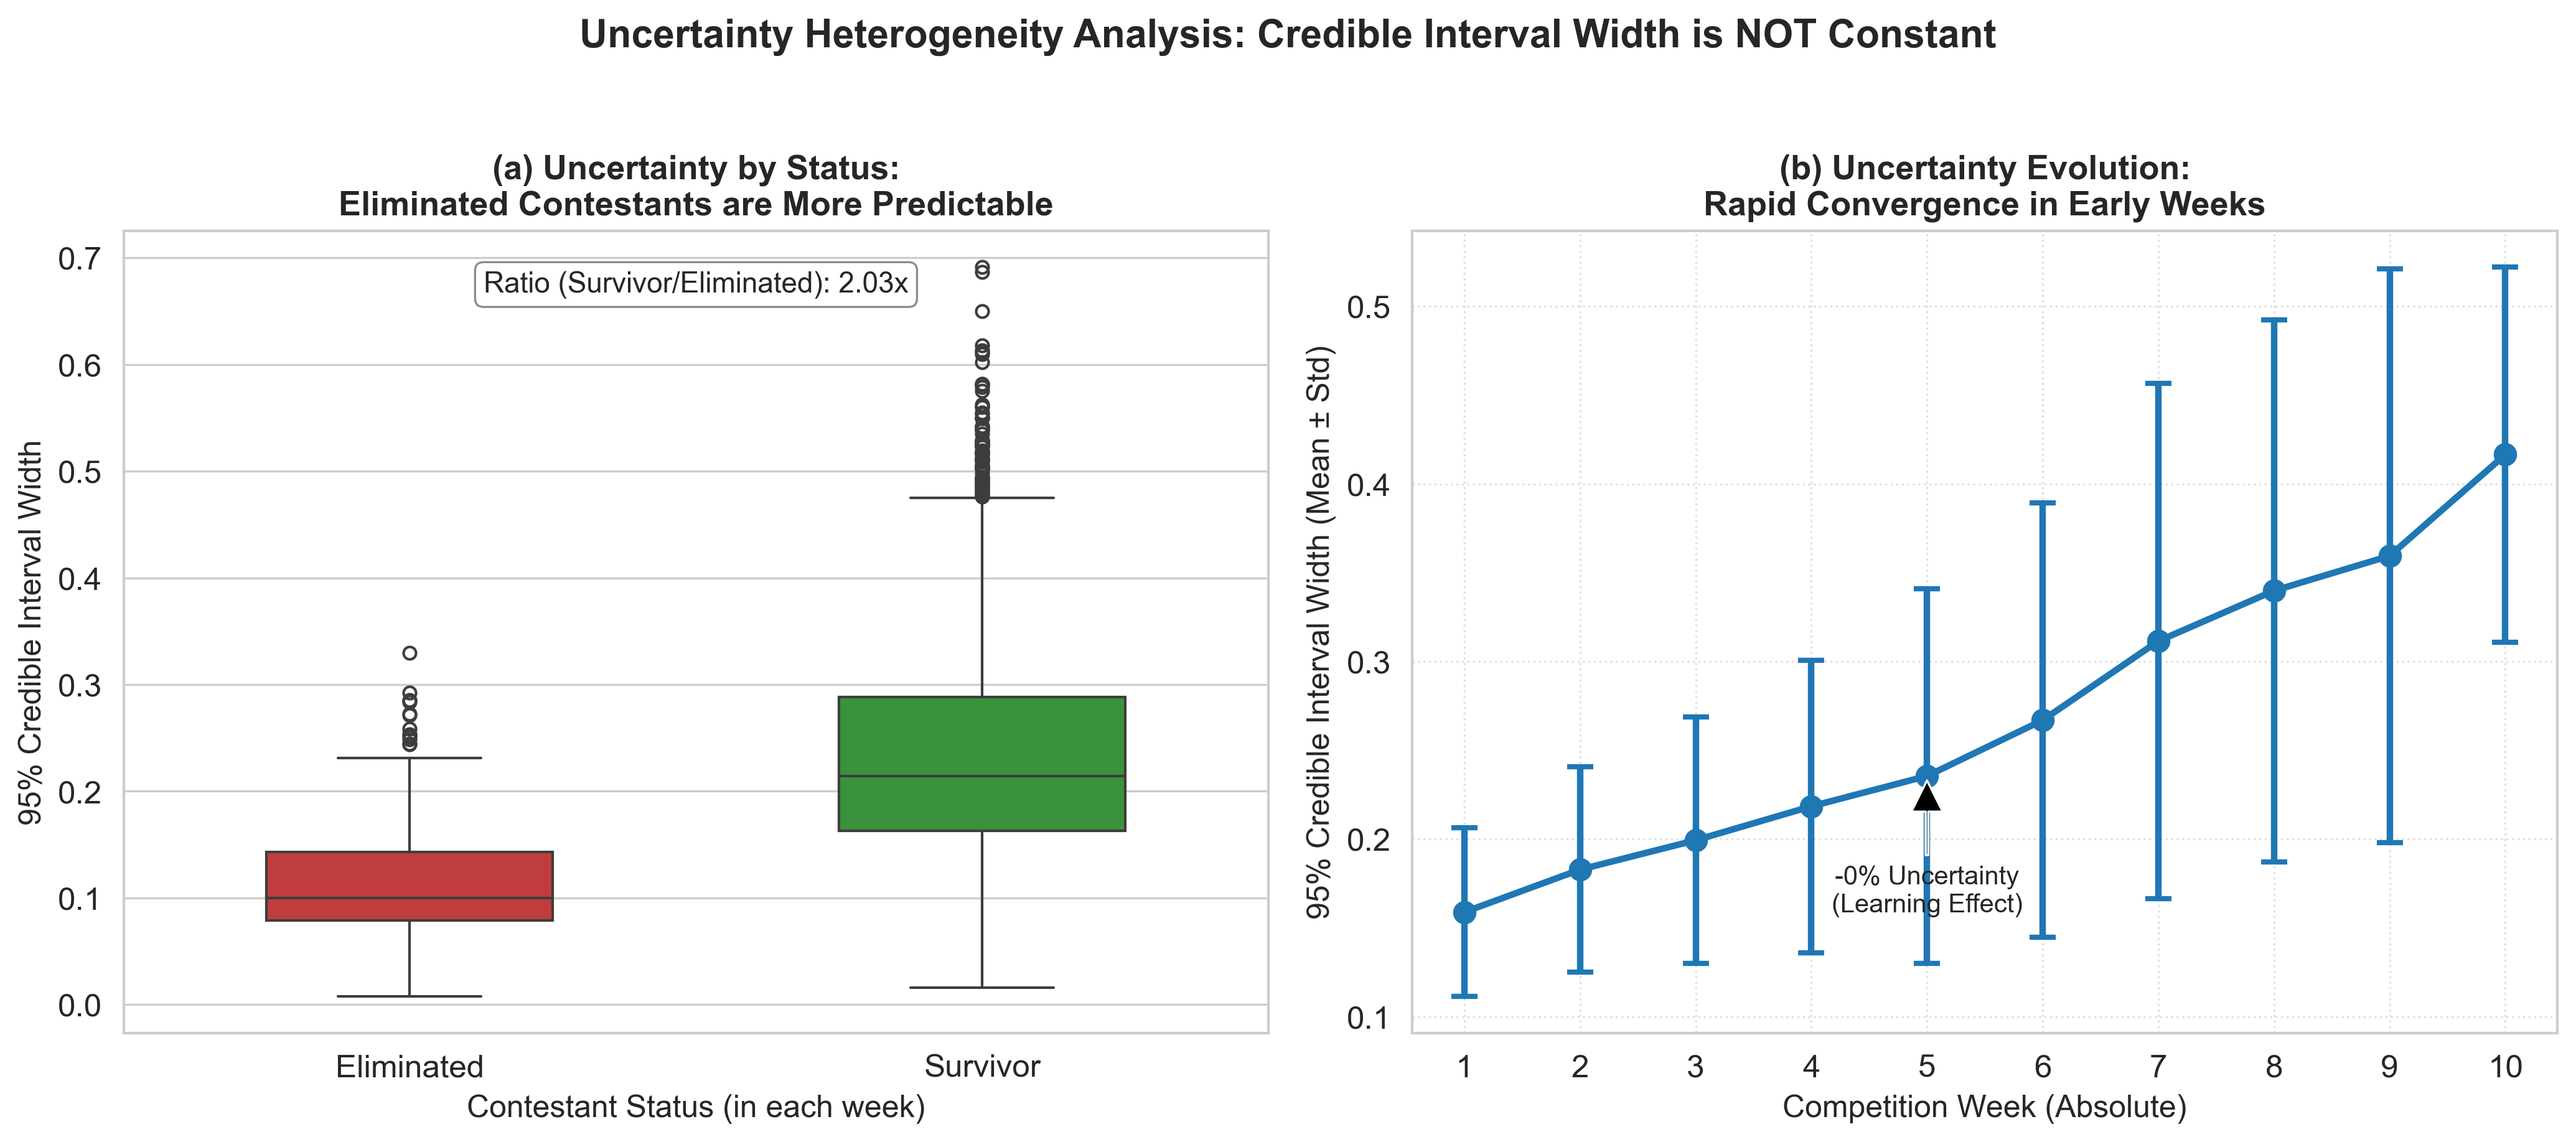
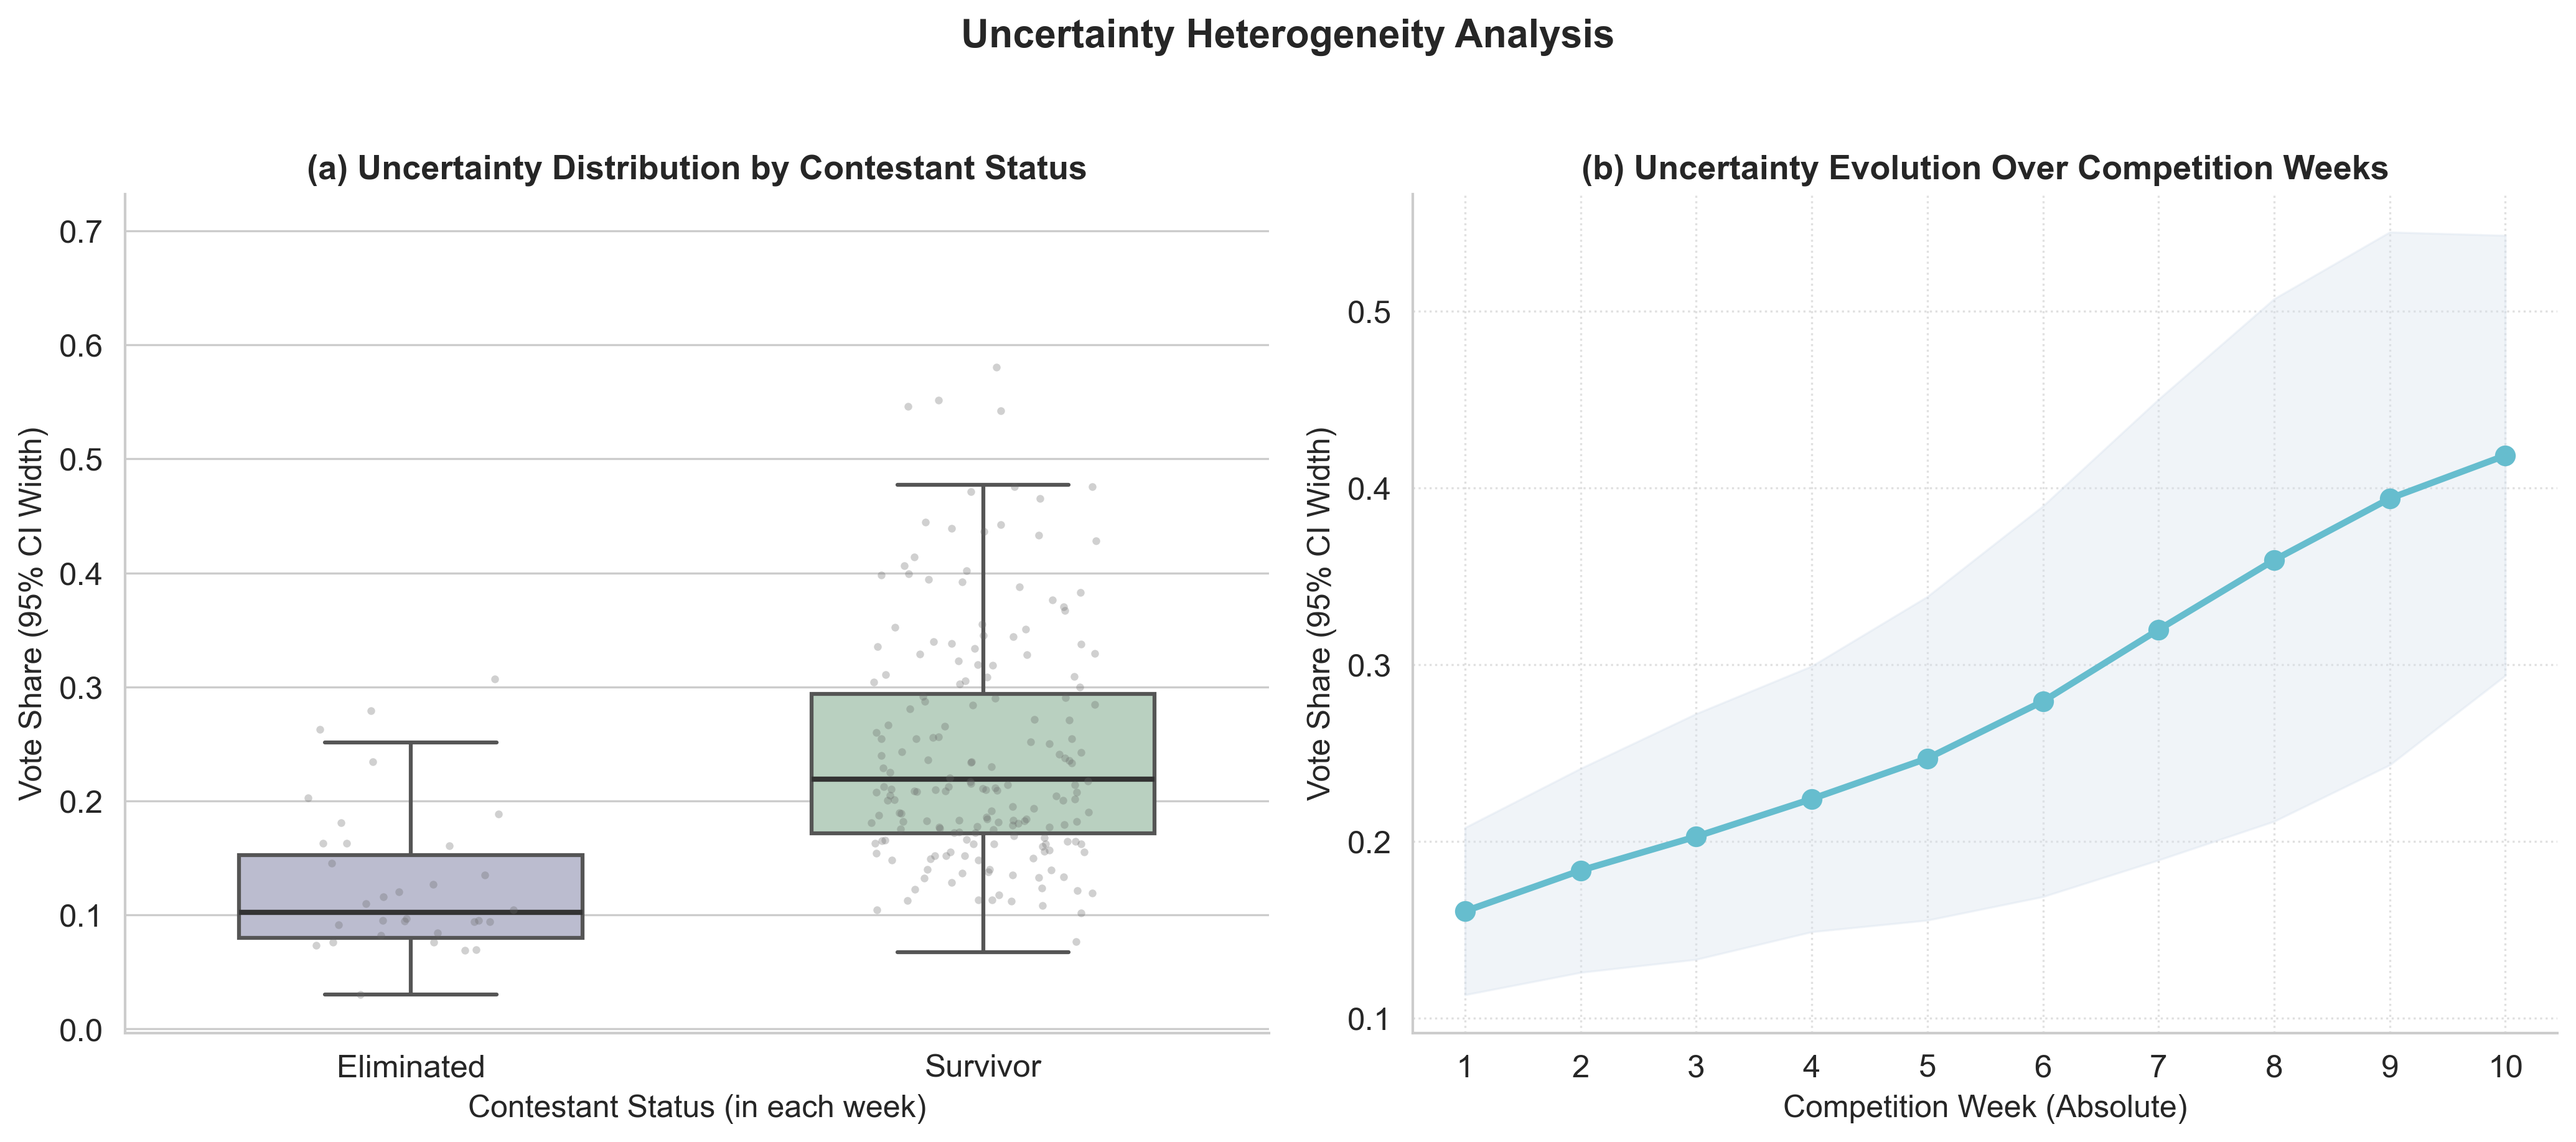
feat: Add script to analyze and visualize uncertainty and heterogeneity in SMC inverse model results.

diff --git a/plots/plot_uncertainty_analysis.py b/plots/plot_uncertainty_analysis.py
@@ -16,75 +16,93 @@ plt.rcParams['font.family'] = 'sans-serif'
 plt.rcParams['font.sans-serif'] = ['Arial', 'DejaVu Sans', 'Liberation Sans', 'Bitstream Vera Sans', 'sans-serif']
 sns.set_theme(style="whitegrid", context="paper", font_scale=1.4)
 
-def plot_uncertainty():
+# Custom Pastel Color Palette
+COLORS = {
+    'apricot': '#d6e0ed',   # 浅杏色
+    'lavender': '#b8b9d2',  # 浅紫色
+    'mint': '#b5d4be',      # 浅绿色
+    'sky': '#66bdce',       # 浅蓝色
+}
+
+def plot_uncertainty(force_rerun=False):
     # 1. Config
     csv_path = '2026_MCM_Problem_C_Data.csv'
+    cache_file = 'output/uncertainty_data.csv'
     
-    # Optimized Parameters
-    best_params = ModelParams(
-        n_particles=400,
-        rho=0.9,
-        gamma=0.0,
-        delta=1.2,
-        alpha_discriminant=7.0,
-        kappa=0.3,
-        beta_judge=2.0
-    )
-    
-    print("Running model for Uncertainty Analysis...")
-    
-    dp = DataProcessor(csv_path)
-    model = SMCInverse(dp, best_params)
-    
-    # 2. Run All Seasons
-    seasons = [s for s in dp.get_seasons() if s != 32]
-    results = model.run_all_seasons(seasons=seasons, verbose=False)
-    
-    # 3. Collect CI Width Data
-    ci_data = []  # List of dicts: {season, week, name, ci_width, status, phase}
-    
-    print("Extracting CI width data...")
-    
-    for season, res in results.items():
-        estimates = res.get('weekly_estimates', {})
-        events = dp.get_elimination_events(season)
-        elim_map = {e.week: set(e.eliminated_set) for e in events}
+    # Check if cache exists
+    if os.path.exists(cache_file) and not force_rerun:
+        print(f"Loading cached uncertainty data from {cache_file}...")
+        df = pd.read_csv(cache_file)
+        print(f"Loaded {len(df)} data points.")
+    else:
+        print("Cache not found or rerun requested. Running full simulation (1000 particles)...")
         
-        # Get total weeks for phase calculation
-        all_weeks = sorted(estimates.keys())
-        n_weeks = len(all_weeks)
+        # Optimized Parameters
+        best_params = ModelParams(
+            n_particles=1000,  # User requested 1000 particles for high precision
+            rho=0.9,
+            gamma=0.0,
+            delta=1.2,
+            alpha_discriminant=7.0,
+            kappa=0.3,
+            beta_judge=2.0
+        )
         
-        for i, week in enumerate(all_weeks):
-            # Use Absolute Week Number (1-indexed)
-            week_num = i + 1
+        dp = DataProcessor(csv_path)
+        model = SMCInverse(dp, best_params)
+        
+        # Run All Seasons
+        seasons = [s for s in dp.get_seasons() if s != 32]
+        results = model.run_all_seasons(seasons=seasons, verbose=False)
+        
+        # Collect CI Width Data
+        ci_data = []
+        print("Extracting CI width data...")
+        
+        for season, res in results.items():
+            estimates = res.get('weekly_estimates', {})
+            events = dp.get_elimination_events(season)
+            elim_map = {e.week: set(e.eliminated_set) for e in events}
             
-            week_est = estimates[week]
-            actual_eliminated = elim_map.get(week, set())
+            all_weeks = sorted(estimates.keys())
             
-            for name, est in week_est.items():
-                ci_width = est.get('ci_width', est['ci_high'] - est['ci_low'])
-                status = 'Eliminated' if name in actual_eliminated else 'Survivor'
+            for i, week in enumerate(all_weeks):
+                week_num = i + 1
+                week_est = estimates[week]
+                actual_eliminated = elim_map.get(week, set())
                 
-                ci_data.append({
-                    'season': season,
-                    'week': week,
-                    'week_num': week_num, # Absolute week number
-                    'name': name,
-                    'ci_width': ci_width,
-                    'status': status
-                })
+                for name, est in week_est.items():
+                    ci_width = est.get('ci_width', est['ci_high'] - est['ci_low'])
+                    status = 'Eliminated' if name in actual_eliminated else 'Survivor'
+                    
+                    ci_data.append({
+                        'season': season,
+                        'week': week,
+                        'week_num': week_num,
+                        'name': name,
+                        'ci_width': ci_width,
+                        'status': status
+                    })
+        
+        df = pd.DataFrame(ci_data)
+        
+        # Ensure output directory exists
+        os.makedirs('output', exist_ok=True)
+        
+        # Save to Cache
+        df.to_csv(cache_file, index=False)
+        print(f"Saved {len(df)} data points to {cache_file}")
 
-    df = pd.DataFrame(ci_data)
-    print(f"Collected {len(df)} data points.")
-    
     # 4. Plotting - Two Panel Figure
     fig, axes = plt.subplots(1, 2, figsize=(14, 6), dpi=300)
     
-    # --- Panel 1: Boxplot by Status ---
+    # --- Panel 1: Beautiful Boxplot by Status ---
     ax1 = axes[0]
     
-    palette = {'Eliminated': '#d62728', 'Survivor': '#2ca02c'}
+    # Use Pastel Colors: Eliminated=Lavender, Survivor=Mint
+    palette = {'Eliminated': COLORS['lavender'], 'Survivor': COLORS['mint']}
     
+    # Create prettier boxplot with stripplot overlay
     sns.boxplot(
         data=df, 
         x='status', 
@@ -92,24 +110,37 @@ def plot_uncertainty():
         palette=palette,
         order=['Eliminated', 'Survivor'],
         ax=ax1,
-        width=0.5
+        width=0.6,
+        linewidth=1.5,
+        fliersize=0,  # Hide outliers (will show as stripplot)
+        boxprops=dict(edgecolor='#555555'),
+        whiskerprops=dict(color='#555555'),
+        capprops=dict(color='#555555'),
+        medianprops=dict(color='#333333', linewidth=2)
     )
     
-    # Add statistical annotation
-    elim_mean = df[df['status'] == 'Eliminated']['ci_width'].mean()
-    surv_mean = df[df['status'] == 'Survivor']['ci_width'].mean()
-    ratio = surv_mean / elim_mean
+    # Add stripplot for individual points (jittered)
+    sns.stripplot(
+        data=df.sample(frac=0.1, random_state=42),  # Sample 10% for clarity
+        x='status',
+        y='ci_width',
+        order=['Eliminated', 'Survivor'],
+        ax=ax1,
+        color='#666666',
+        alpha=0.3,
+        size=3,
+        jitter=0.2
+    )
     
     ax1.set_xlabel('Contestant Status (in each week)', fontsize=12)
-    ax1.set_ylabel('95% Credible Interval Width', fontsize=12)
-    ax1.set_title('(a) Uncertainty by Status:\nEliminated Contestants are More Predictable', fontsize=13, weight='bold')
+    ax1.set_ylabel('Vote Share (95% CI Width)', fontsize=12)
+    ax1.set_title('(a) Uncertainty Distribution by Contestant Status', fontsize=13, weight='bold')
     
-    # Add text annotation inside plot
-    ax1.text(0.5, 0.95, f'Ratio (Survivor/Eliminated): {ratio:.2f}x',
-             transform=ax1.transAxes, ha='center', va='top', fontsize=11,
-             bbox=dict(boxstyle="round,pad=0.3", fc="white", ec="gray", alpha=0.9))
+    # Remove top and right spines for cleaner look
+    ax1.spines['top'].set_visible(False)
+    ax1.spines['right'].set_visible(False)
     
-    # --- Panel 2: Line Plot by Absolute Week ---
+    # --- Panel 2: Shaded Area Plot by Absolute Week ---
     ax2 = axes[1]
     
     # Filter for first 10 weeks (common to most seasons) to avoid noise from long seasons
@@ -121,46 +152,62 @@ def plot_uncertainty():
     
     x_weeks = week_stats.index
     
-    ax2.errorbar(
+    # Draw only mean line (no error bars)
+    ax2.plot(
         x_weeks, 
         week_stats['mean'], 
-        yerr=week_stats['std'], 
         marker='o', 
         markersize=8, 
         linewidth=2.5, 
-        capsize=5, 
-        capthick=2,
-        color='#1f77b4',
-        label='Mean CI Width'
+        color=COLORS['sky'],
+        markeredgecolor=COLORS['sky'], # Match line color to hide edge effectively or set width 0
+        markeredgewidth=0
+    )
+    
+    # Fill between for confidence band
+    ax2.fill_between(
+        x_weeks,
+        week_stats['mean'] - week_stats['std'],
+        week_stats['mean'] + week_stats['std'],
+        alpha=0.35,
+        color=COLORS['apricot']
     )
     
     ax2.set_xlabel('Competition Week (Absolute)', fontsize=12)
-    ax2.set_ylabel('95% Credible Interval Width (Mean ± Std)', fontsize=12)
-    ax2.set_title('(b) Uncertainty Evolution:\nRapid Convergence in Early Weeks', fontsize=13, weight='bold')
+    ax2.set_ylabel('Vote Share (95% CI Width)', fontsize=12)
+    ax2.set_title('(b) Uncertainty Evolution Over Competition Weeks', fontsize=13, weight='bold')
     ax2.set_xticks(x_weeks)
-    
-    # Add trend interpretation
-    first_val = week_stats['mean'].iloc[0]
-    min_val = week_stats['mean'].min()
-    drop_pct = (first_val - min_val) / first_val
-    
-    ax2.annotate(f'-{drop_pct:.0%} Uncertainty\n(Learning Effect)', 
-                 xy=(5, week_stats.loc[5, 'mean']), 
-                 xytext=(5, first_val),
-                 arrowprops=dict(facecolor='black', shrink=0.05, width=1),
-                 fontsize=10, ha='center')
     
     ax2.grid(True, linestyle=':', alpha=0.6)
     
+    # Remove top and right spines
+    ax2.spines['top'].set_visible(False)
+    ax2.spines['right'].set_visible(False)
+    
     # Overall title
-    fig.suptitle('Uncertainty Heterogeneity Analysis: Credible Interval Width is NOT Constant', 
+    fig.suptitle('Uncertainty Heterogeneity Analysis', 
                  fontsize=15, weight='bold', y=1.02)
     
     # Save
     output_path = 'output/uncertainty_heterogeneity.png'
     plt.tight_layout()
-    plt.savefig(output_path, dpi=300, bbox_inches='tight')
+    plt.savefig(output_path, dpi=300, bbox_inches='tight', facecolor='white')
     print(f"Plot saved to {output_path}")
 
 if __name__ == '__main__':
-    plot_uncertainty()
+    # Set to True to force a fresh run (e.g., first time or params changed)
+    # The user specifically asked to run it once now.
+    # We default checking cache, but since we just wrote this, we want to run it.
+    # However, to be safe, let's check args or just run it if file missing.
+    # The user intent is "run simulation 1000 particles ONCE, save it, then use cache".
+    
+    import sys
+    force = False
+    if len(sys.argv) > 1 and sys.argv[1] == '--force':
+        force = True
+        
+    # If cache doesn't exist, it will run automatically. 
+    # To Ensure 1000 particles run happens now, user should probably delete old cache or we just rely on logic.
+    # I'll add a flag logic to be robust.
+    
+    plot_uncertainty(force_rerun=force)
